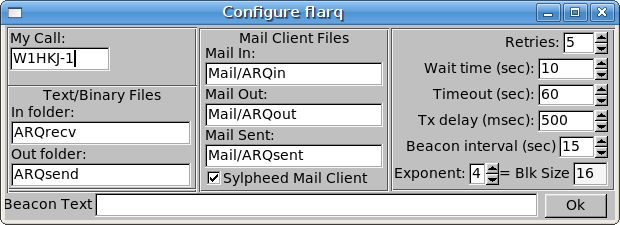
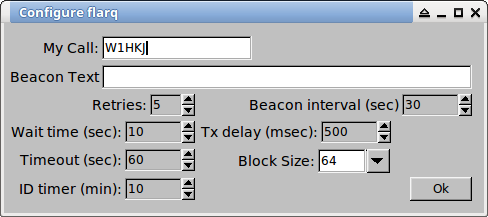
flarq idtimer
* Add 10 minute id timer to statFrame

diff --git a/src/flarq-src/include/arq.h b/src/flarq-src/include/arq.h
@@ -47,6 +47,8 @@
 
 #include <FL/Fl.H>
 
+extern int idtimer;
+
 using namespace std;
 
 #define DEBUG
@@ -232,7 +234,8 @@ private:
 	int	Timeout;
 	int	tx2txdelay;
 	int	TxDelay;
-	int    loopcount;
+	int	loopcount;
+	int	_idtimer;
 
 	int	baseRetryTime;
 	int	baseTimeout;
@@ -388,6 +391,11 @@ public:
 	void	setTxDelay ( int r2t ) { TxDelay = r2t; }
 	int		getTxDelay() { return (int) TxDelay; }
 	int		getRetryCount() { return (int)(Retries - retries + 1); }
+
+	void	set_idtimer() {
+		if (idtimer) _idtimer = (idtimer * 60 - 10) * 1000 / ARQLOOPTIME;
+		else _idtimer = (10 * 60 - 10) * 1000 / ARQLOOPTIME;
+	}
 
 	void	setrxUrCall( void (*f)(string s)) { rxUrCall = f;}
 	void	setQualityValue( void (*f)(string s)) { qualityfnc = f;}

diff --git a/src/flarq-src/include/arqdialogs.h b/src/flarq-src/include/arqdialogs.h
@@ -53,8 +53,9 @@ extern Fl_Spinner2 *spnWaitTime;
 extern Fl_Spinner2 *spnTimeout;
 extern Fl_Spinner2 *spnTxDelay;
 extern Fl_Spinner2 *spnBcnInterval;
-extern Fl_Button *btnOK;
+extern Fl_Spinner2 *spnIDtimer;
 extern Fl_ComboBox *choiceBlockSize;
+extern Fl_Button *btnOK;
 Fl_Double_Window* arq_configure();
 #include "table.h"
 extern Table *tblOutgoing;

diff --git a/src/flarq-src/include/flarq.h b/src/flarq-src/include/flarq.h
@@ -47,6 +47,9 @@ extern int		iretries;
 extern long		iwaittime;
 extern long		itimeout;
 extern int		bcnInterval;
+extern int		idtimer;
+
+extern void		cb_idtimer();
 
 // used by xmlrpc interface
 extern int			arqstate;
